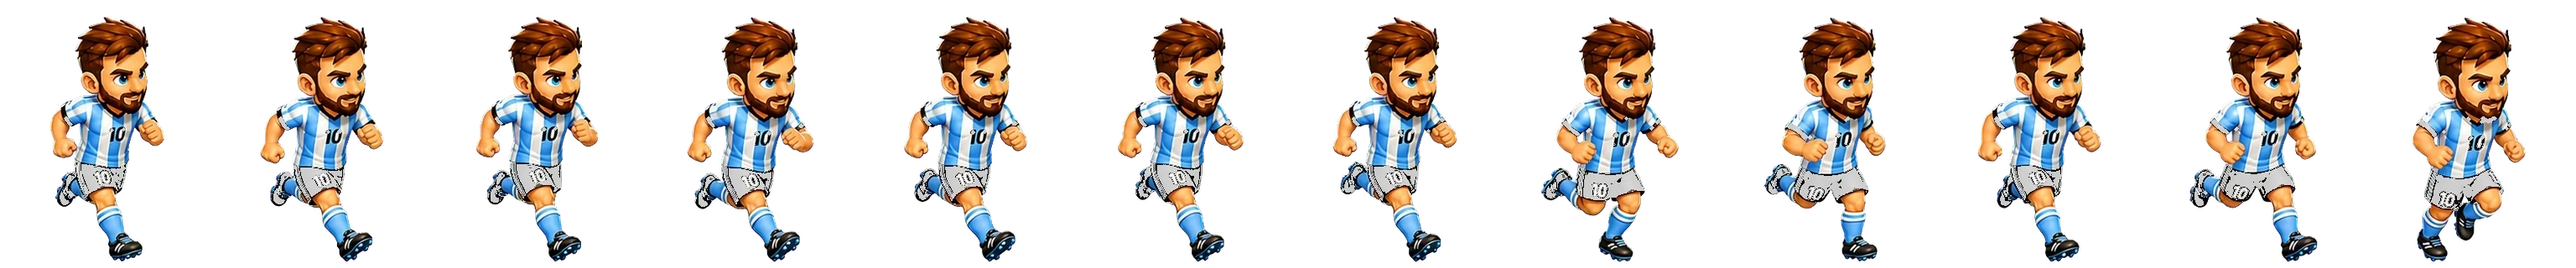
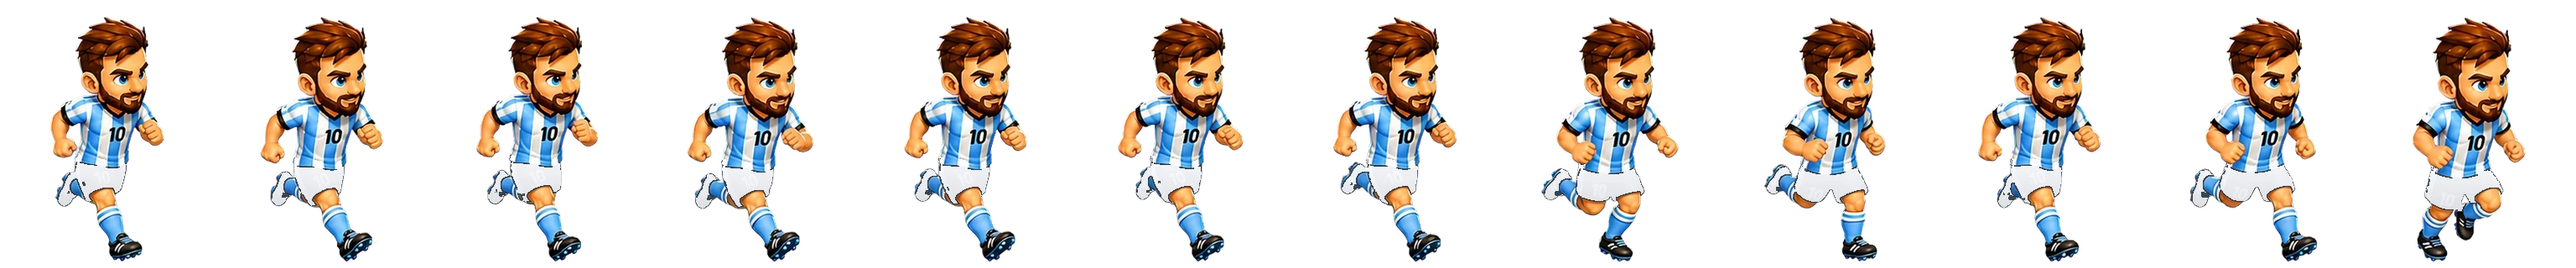
fix: verify all directional player movement

diff --git a/src/game/render.ts b/src/game/render.ts
@@ -24,7 +24,7 @@ import {
   type Atlas,
 } from '../core/sprites';
 import { BOSSES, ENEMIES, FREEZE_DURATION, SKINS, type BossId, type EnemyDef, type PlayerDef } from './data';
-import { ARENA_H, ARENA_W, BOSS_INTRO_DURATION, BOSS_MELEE_LUNGE_DURATION, DASH_ANTICIPATION_DURATION, DASH_RECOVERY_DURATION, ENEMY_MELEE_LUNGE_DURATION, enemyAirLift, enemyRunCycleDistance, guardRunCycleDistance, guardRunPresentation, hybridBossBodyContact, KICK_AIM_LOCK_DELAY, KICK_CONTACT_DELAY, KICK_DURATION, MELEE_RECOVERY_DURATION, type Enemy, type Guard, type Pickup, type Sim } from './sim';
+import { ARENA_H, ARENA_W, BOSS_INTRO_DURATION, BOSS_MELEE_LUNGE_DURATION, DASH_ANTICIPATION_DURATION, DASH_RECOVERY_DURATION, ENEMY_MELEE_LUNGE_DURATION, enemyAirLift, enemyRunCycleDistance, guardRunCycleDistance, guardRunPresentation, hybridBossBodyContact, KICK_AIM_LOCK_DELAY, KICK_CONTACT_DELAY, KICK_DURATION, MELEE_RECOVERY_DURATION, PLAYER_PIVOT_DURATION, type Enemy, type Guard, type Pickup, type Sim } from './sim';
 import type { Save } from './meta';
 
 /** Runtime art bible. Values are consumed by the renderer so perspective,
@@ -467,6 +467,28 @@ export function directionalFrameBlend(animT: number, fps: number, frames: number
     frame: base % count,
     nextFrame: (base + 1) % count,
     mix: 0,
+  };
+}
+
+export interface MatchdayWipeoutVisual {
+  size: number;
+  alpha: number;
+}
+
+/** Keep the authored Wipeout spectacular without hiding the tactical frame.
+ * The diameter is capped to 65% of the short viewport edge, matching the
+ * release-audit readability contract on portrait and landscape screens. */
+export function matchdayWipeoutVisual(
+  viewportWidth: number,
+  viewportHeight: number,
+  progress: number,
+  reducedVfx: boolean,
+): MatchdayWipeoutVisual {
+  const safeProgress = clamp(progress, 0, 0.999);
+  const fade = safeProgress < 0.72 ? 1 : 1 - (safeProgress - 0.72) / 0.28;
+  return {
+    size: Math.max(0, Math.min(viewportWidth, viewportHeight)) * 0.65,
+    alpha: clamp(fade, 0, 1) * (reducedVfx ? 0.26 : 0.5),
   };
 }
 
@@ -3044,6 +3066,7 @@ export class Renderer {
       bottom: playerScreenY + 3,
     };
     let playerOcclusion = 0;
+    let friendlyVfxOcclusion = 0;
     let playerOcclusionPose: {
       atlas: Atlas;
       frame: number;
@@ -3389,10 +3412,19 @@ export class Renderer {
       } else if (it.kind === 1) {
         const dashPose = p.dashWindupT > 0 || p.dashT > 0 || p.dashRecoveryT > 0;
         const running = p.moving || dashPose;
-        const direction = movementDirection(
+        const physicalDirection = movementDirection(
           dashPose ? p.dashDx : p.visualDx,
           dashPose ? p.dashDy : p.visualDy,
         );
+        const pivotProgress = p.pivotT > 0
+          ? clamp(1 - p.pivotT / PLAYER_PIVOT_DURATION, 0, 1)
+          : 1;
+        // A true 180-degree cut holds the outgoing authored view through the
+        // first half of a compressed plant, then commits to the new view. This
+        // removes the instantaneous atlas teleport without blending two feet.
+        const direction = p.pivotT > 0 && pivotProgress < 0.5
+          ? MOVEMENT_DIRECTIONS[((p.pivotFromDir % 8) + 8) % 8]
+          : physicalDirection;
         const vis = this.heroVisual(def, save, running, p.kickT > 0, direction);
         const heroSkinId = save.equippedSkin(def.id);
         const heroSkin = heroSkinId ? SKINS.find((skin) => skin.id === heroSkinId) : undefined;
@@ -3557,6 +3589,13 @@ export class Renderer {
             ctx.translate(p.aimDx * recoveryU * 2.2, p.aimDy * TILT * recoveryU);
             ctx.rotate(p.aimDx * recoveryU * 0.024);
           }
+        }
+        if (p.pivotT > 0 && p.dashT <= 0 && p.kickT <= 0) {
+          const plant = Math.sin(Math.PI * pivotProgress);
+          const turnSign = Math.sin((p.pivotToDir - p.pivotFromDir) * Math.PI / 4) || (p.moveDx >= 0 ? 1 : -1);
+          ctx.translate(0, plant * 1.3);
+          ctx.rotate(turnSign * plant * 0.042);
+          ctx.scale(1 - plant * 0.085, 1 + plant * 0.035);
         }
         // A restrained acceleration lean gives the first 130 ms physical
         // weight without shifting the planted foot baseline or delaying input.
@@ -3935,9 +3974,26 @@ export class Renderer {
             this.drawVfxFrame(ctx, this.captainsWhistleSpr, nextFrame, x, y, size, 0, mix * (this.reducedVfx ? 0.5 : 0.78), false);
           }
           ctx.restore();
+        } else {
+          // Decode/network failure must not make a gameplay pulse invisible.
+          // The shipped authored strip remains the normal presentation; this
+          // restrained stadium-sound contour is emergency readability only.
+          const progress = clamp(1 - r.life / 0.45, 0, 0.999);
+          const x = toSX(r.x);
+          const y = toSY(r.y);
+          ctx.save();
+          ctx.globalAlpha = (1 - progress) * (this.reducedVfx ? 0.28 : 0.46);
+          ctx.strokeStyle = '#eefbff';
+          ctx.lineWidth = 3.2 - progress * 1.2;
+          ctx.beginPath();
+          ctx.ellipse(x, y, r.r, r.r * TILT, 0, 0, TAU);
+          ctx.stroke();
+          ctx.globalAlpha *= 0.52;
+          ctx.beginPath();
+          ctx.ellipse(x, y, r.r * 0.78, r.r * TILT * 0.78, 0, 0, TAU);
+          ctx.stroke();
+          ctx.restore();
         }
-        // Captain's Whistle intentionally has no procedural fallback. If its
-        // authored strip is not decoded yet, the pulse waits for the next cast.
         continue;
       }
       ctx.globalAlpha = whistle ? a * 0.9 : a;
@@ -4027,6 +4083,34 @@ export class Renderer {
     }
     ctx.globalAlpha = 1;
 
+    // Matchday Wipeout uses the authored six-stage stadium explosion but is
+    // clamped to the audit's fair-play footprint. It renders before the final
+    // hostile-warning pass, and the player receives a temporary contour so
+    // neither danger nor control position disappears inside the spectacle.
+    if (this.matchdayWipeoutStartedAt >= 0) {
+      const age = time - this.matchdayWipeoutStartedAt;
+      const duration = 0.72;
+      if (age < duration) {
+        const progress = clamp(age / duration, 0, 0.999);
+        const frame = Math.min(5, Math.floor(progress * 6));
+        const wipeoutVisual = matchdayWipeoutVisual(vw, vh, progress, this.reducedVfx);
+        this.drawVfxFrame(
+          ctx,
+          this.matchdayWipeoutSpr,
+          frame,
+          toSX(sim.player.x),
+          toSY(sim.player.y) - 20,
+          wipeoutVisual.size,
+          0,
+          wipeoutVisual.alpha,
+          false,
+        );
+        friendlyVfxOcclusion = wipeoutVisual.alpha * 0.82;
+      } else {
+        this.matchdayWipeoutStartedAt = -1;
+      }
+    }
+
     // Re-ink only the collision boundary of active danger after decorative
     // impacts. The ground fill remains correctly underneath bodies, while the
     // final two-pixel edge cannot be erased by friendly max-level spectacle.
@@ -4057,32 +4141,6 @@ export class Renderer {
       ctx.restore();
     }
 
-    // Matchday Wipeout is authored as a six-stage, full-pitch explosion. It
-    // replaces the old oversized procedural ring and remains below HUD text.
-    if (this.matchdayWipeoutStartedAt >= 0) {
-      const age = time - this.matchdayWipeoutStartedAt;
-      const duration = 0.72;
-      if (age < duration) {
-        const progress = clamp(age / duration, 0, 0.999);
-        const frame = Math.min(5, Math.floor(progress * 6));
-        const fade = progress < 0.72 ? 1 : 1 - (progress - 0.72) / 0.28;
-        const size = Math.max(vw, vh * 1.35) * 1.08;
-        this.drawVfxFrame(
-          ctx,
-          this.matchdayWipeoutSpr,
-          frame,
-          toSX(sim.player.x),
-          toSY(sim.player.y) - 20,
-          size,
-          0,
-          clamp(fade, 0, 1) * (this.reducedVfx ? 0.3 : 0.68),
-          false,
-        );
-      } else {
-        this.matchdayWipeoutStartedAt = -1;
-      }
-    }
-
     // The final player knockout is also a generated sequence. It has enough
     // time to complete before the result screen replaces the live pitch.
     if (sim.over === 'lost') {
@@ -4106,7 +4164,8 @@ export class Renderer {
     // The contour is intentionally delayed until all world-space effects have
     // rendered. It appears only while another living body covers the player,
     // preserving normal painter depth everywhere else.
-    if (playerOcclusionPose && playerOcclusion > 0.04 && sim.over !== 'lost') {
+    const playerLocatorStrength = Math.max(playerOcclusion, friendlyVfxOcclusion);
+    if (playerOcclusionPose && playerLocatorStrength > 0.04 && sim.over !== 'lost') {
       this.drawPlayerOcclusionLocator(
         ctx,
         playerOcclusionPose.atlas,
@@ -4116,7 +4175,7 @@ export class Renderer {
         playerOcclusionPose.scale,
         playerOcclusionPose.bobY,
         playerOcclusionPose.flip,
-        playerOcclusion,
+        playerLocatorStrength,
       );
     }
     this.lastPlayerOcclusion = playerOcclusion;

diff --git a/tests/unit/sim.test.ts b/tests/unit/sim.test.ts
@@ -2,7 +2,7 @@ import { describe, expect, it } from 'vitest';
 import { abilityCadenceLabel, approachVelocity, ARENA_W, bossApproachIngressMultiplier, bossDirectorIngressMultiplier, bossHealthMultiplier, BOSS_INTRO_DURATION, BOSS_MELEE_LUNGE_DURATION, directorPopulationIngressMultiplier, ENEMY_MELEE_LUNGE_DURATION, enemyAirLift, enemyHitFeedbackStrength, enemyRunCycleDistance, enemyRunTargetFps, enemyXpRewardMultiplier, guardAuthoredRunVector, guardFormationOffset, guardRunPresentation, hybridBossBodyContact, hybridBossSceneryPad, hybridEnemySceneryPad, hystereticMovementOctant, MELEE_CONTACT_PROGRESS, PLAYER_RUN_CYCLE_DISTANCE, PLAYER_RUN_FPS, PLAYER_RUN_FRAMES, PLAYER_VISUAL_Y_SCALE, resolveHybridBossBodyContact, Sim, statProgressLabel, stepMovementOctant, upgradeDraftWeight } from '../../src/game/sim';
 import { BOSS0_AT, BOSS1_AT, BOSSES, ENEMIES, PLAYERS, RUN_LENGTH } from '../../src/game/data';
 import { Save } from '../../src/game/meta';
-import { aerialLaunchVisual, ART_DIRECTION_PROFILE, bossArrivalVisual, combatPresentationBudget, corpseCollapseVisual, dampedTurfDisplacement, directionalFrameBlend, enemyHealthBarPriority, enemyHealthBarStyle, enemyPoseFrame, guardPoseFrame, HYBRID_LIGHT_CAST, hybridCentreMarkingGeometry, hybridCornerFlagDepthScale, hybridEntityDepthScale, hybridEntityShadowGeometry, hybridGoalNetBreathe, hybridHostileProjectileElevation, hybridPitchMarkingGeometry, hybridStadiumParallax, movementDirection, orbitPainterDepthY, orbitTrailArcGeometry, pickupVisibleBounds, placeEnemyHealthBar, playerOcclusionStrength, playerStepCue, reducedCombatPresentationBudget, type HealthBarCollisionRect } from '../../src/game/render';
+import { aerialLaunchVisual, ART_DIRECTION_PROFILE, bossArrivalVisual, combatPresentationBudget, corpseCollapseVisual, dampedTurfDisplacement, directionalFrameBlend, enemyHealthBarPriority, enemyHealthBarStyle, enemyPoseFrame, guardPoseFrame, HYBRID_LIGHT_CAST, hybridCentreMarkingGeometry, hybridCornerFlagDepthScale, hybridEntityDepthScale, hybridEntityShadowGeometry, hybridGoalNetBreathe, hybridHostileProjectileElevation, hybridPitchMarkingGeometry, hybridStadiumParallax, matchdayWipeoutVisual, movementDirection, orbitPainterDepthY, orbitTrailArcGeometry, pickupVisibleBounds, placeEnemyHealthBar, playerOcclusionStrength, playerStepCue, reducedCombatPresentationBudget, type HealthBarCollisionRect } from '../../src/game/render';
 
 function freshSave(): Save {
   return new Save(null);
@@ -225,6 +225,17 @@ describe('sim core loop', () => {
     expect(directionalFrameBlend(Number.NaN, 20, 12)).toEqual({ frame: 0, nextFrame: 1, mix: 0 });
     expect(directionalFrameBlend(0.03, 20, 12).mix).toBe(0);
     expect(directionalFrameBlend(0.048, 20, 12).mix).toBe(0);
+  });
+
+  it('keeps Matchday Wipeout inside the fair-play viewport footprint', () => {
+    const landscape = matchdayWipeoutVisual(844, 390, 0.5, false);
+    const portrait = matchdayWipeoutVisual(390, 844, 0.5, false);
+    const reduced = matchdayWipeoutVisual(844, 390, 0.5, true);
+    expect(landscape.size).toBeCloseTo(390 * 0.65, 8);
+    expect(portrait.size).toBeCloseTo(390 * 0.65, 8);
+    expect(landscape.alpha).toBeLessThanOrEqual(0.5);
+    expect(reduced.alpha).toBeLessThan(landscape.alpha);
+    expect(matchdayWipeoutVisual(844, 390, 0.999, false).alpha).toBeLessThan(0.01);
   });
 
   it('budgets a player contour only for bodies painted in front of the hero', () => {

diff --git a/src/core/sprites.ts b/src/core/sprites.ts
@@ -155,7 +155,7 @@ let stripUseClock = 0;
 // The local server gives art files a one-year immutable cache lifetime.
 // Bump this revision whenever a shipped player sheet is corrected so browsers
 // cannot keep displaying an obsolete kit after a game update.
-export const PLAYER_ART_REVISION = '4';
+export const PLAYER_ART_REVISION = '5';
 
 export function playerArtUrl(path: string): string {
   return `${path}?v=${PLAYER_ART_REVISION}`;

diff --git a/RELEASE_VERIFICATION.md b/RELEASE_VERIFICATION.md
@@ -5,13 +5,15 @@ Verification date: 2026-08-14
 ## Verified locally
 
 - TypeScript validation: `npm run check` passed.
-- Unit and integration tests: 290 tests passed across assets, core systems, lanes, simulation, and the community server.
+- Unit and integration tests: 291 tests passed across assets, core systems, lanes, simulation, and the community server.
 - Browser tests: 71 active Playwright tests passed; one opt-in natural-match endurance test remained skipped by design.
-- Final focused browser regression: movement review, all boss arrivals, split guard targets, and independent guard patrol all passed (4 tests).
+- Final focused browser regression: all 32 player directions, player locomotion, enemy movement review, captain charge, First Touch Blast, kick commitment, and curved Orbiting Press trails all passed (7 tests).
 - Production build: `npm run build` passed.
-- Portal payload gate: 47.48 MiB of a 50 MiB limit.
+- Portal payload gate: 47.43 MiB of a 50 MiB limit.
 - Production server: the game root and the new clean guard asset returned HTTP 200; an unknown static asset returned HTTP 404.
-- Live browser inspection covered all player directions, Messi's consistent white shorts, curved orbit trails, Keeper's Halo, the VAR Skycam aerial enemy, authored ability-upgrade VFX, clean guard sprites, and grounded boss rendering.
+- Live browser inspection covered all player directions, Messi's repaired white shorts, the other three players' consistent kits, curved orbit trails, Keeper's Halo, the VAR Skycam aerial enemy, authored ability-upgrade VFX, clean guard sprites, and grounded boss rendering.
+- A fresh production capture covered all 4 players in all 8 directions after 1.45 seconds of real movement per direction. Every source strip also met the common feet baseline at y=311-312 px.
+- Captain's Whistle was inspected in a locked mid-pulse frame and kept a soft, authored shockwave. Matchday Wipeout was inspected as a 14-frame live sequence; the player, hostile silhouettes, and warning information stayed readable through the effect.
 - Mobile layouts and joystick input were covered by the Playwright suite at portrait and landscape viewports.
 
 ## Evidence
@@ -31,6 +33,15 @@ Evidence is stored in `work/release-audit-evidence/current-request/`, including:
 - `select-390x844-fixed.png`
 - `select-844x390.png`
 - `select-844x390-scrolled.png`
+
+The final all-direction and scene evidence is stored in `work/goal-all-directions/`:
+
+- `live-32/all-players-32-directions.png`
+- `live-32/{messi,ronaldo,neymar,yamal}-live-contact-sheet.png`
+- `live-32-full/{player}-{direction}.png`
+- `source-contact-sheets/{messi,ronaldo,neymar,yamal}-all-directions.png`
+- `scenes/whistle-progress-052.png`
+- `scenes/wipeout-contact-sheet.png`
 
 ## Preservation
 
